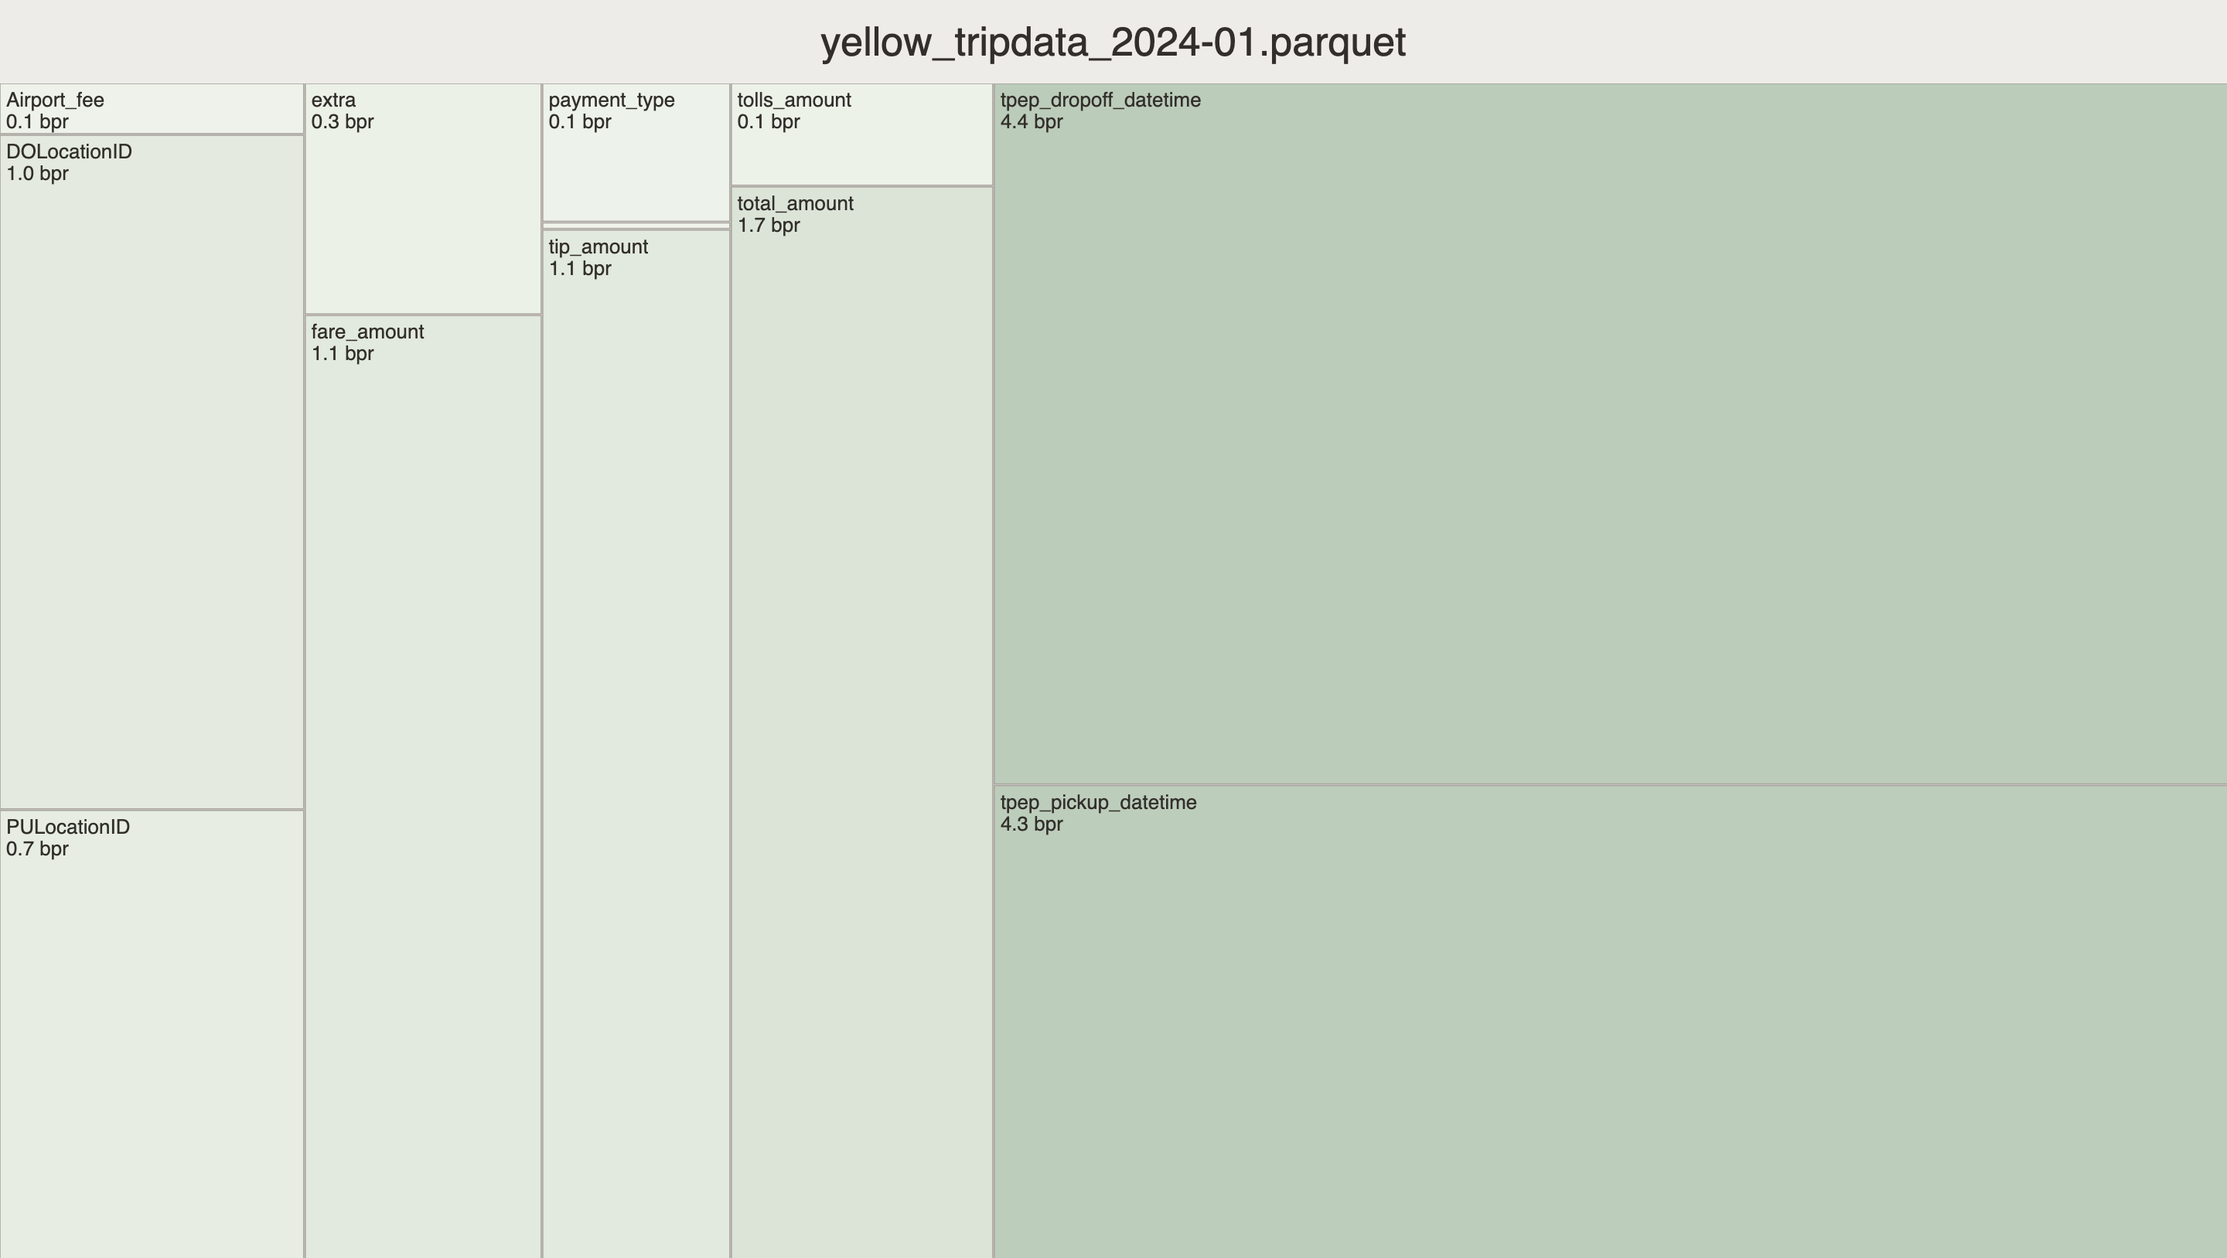
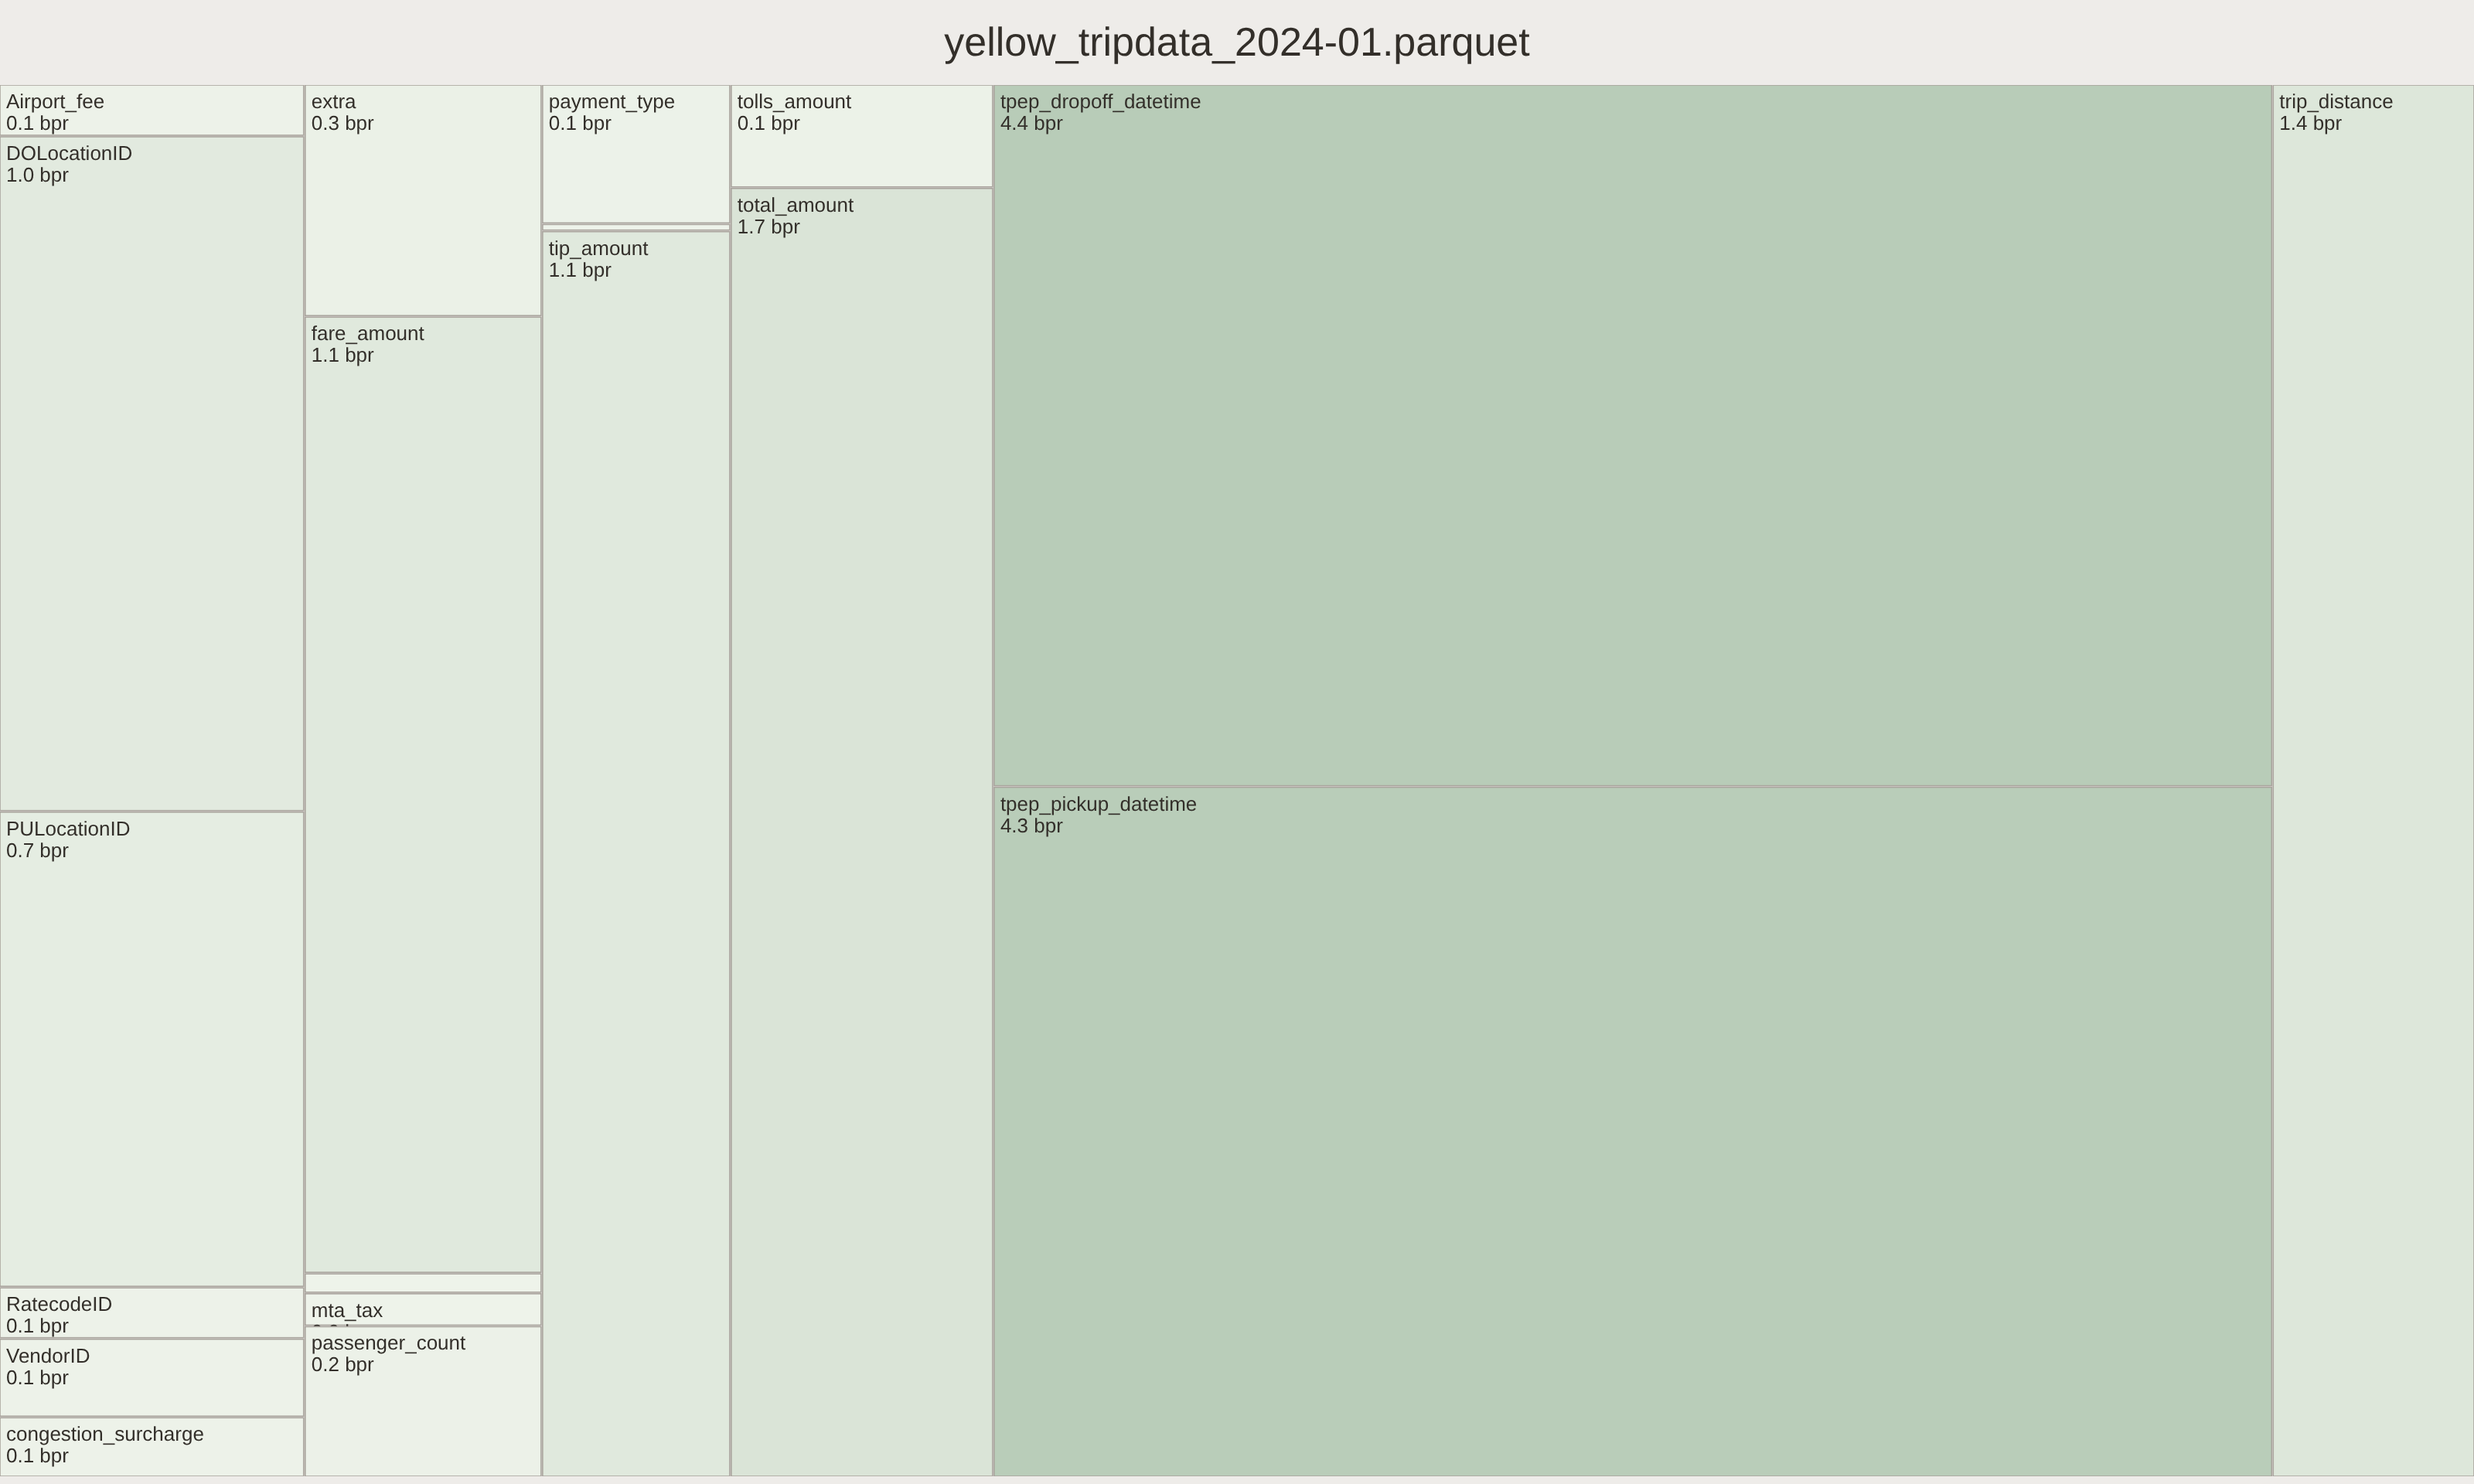
docs: retarget visual demos at the pqbench delta command
The standalone deltabench CLI is now pqbench's feature-gated delta
subcommand (#6, #17, #19, #21), so move the demo gallery, session scripts,
and recording pipeline over to it. Re-record the GIFs and re-capture both
treemap screenshots with the current binaries, and fold the verified public
samples into the repository AGENTS.md.

diff --git a/AGENTS.md b/AGENTS.md
@@ -136,6 +136,53 @@ analogy, convention, or precedent:
   codec objects are valid on any runner. Do not remove it: native-tuned objects
   restored from another runner's cache caused SIGILL.
 
+## Visual demos and public samples
+
+- Regenerate the terminal recordings with `docs/demos/record.sh`. It needs
+  Docker, `asciinema`, and `agg`; it builds `pqbench-cli` with the `delta`
+  feature in persistent, architecture-specific Cargo volumes, then records the
+  sessions in `docs/demos/` and renders `docs/images/*.gif`.
+- The D3 treemap PNGs in `docs/images/` are browser screenshots of `--d3`
+  output, not script-generated; recapture them by hand when the pages change.
+- Stage external inputs once under the ignored `.docker-data/` directory. The
+  source mount is read-only, so redirect generated output to `.docker-data/`
+  (or elsewhere on the host) rather than into the checkout, and reuse the
+  dataset paths documented in [docs/demo.md](docs/demo.md).
+- `make samples` fetches the small Apache/Hugging Face fixtures used by tests;
+  the demo datasets below are larger and live only under `.docker-data/`.
+
+The following anonymous endpoints were verified on 2026-09-19. Prefer these
+reusable inputs for demos instead of generating large fixtures from scratch.
+
+- Tiny Parquet smoke test (public GCS, 1,849 bytes):
+  `https://storage.googleapis.com/cloud-samples-data/bigquery/us-states/us-states.parquet`
+- Official Apache Parquet compatibility fixture (HTTPS, 1,698 bytes):
+  `https://raw.githubusercontent.com/apache/parquet-testing/master/data/alltypes_dictionary.parquet`
+  Other format and edge-case fixtures live in
+  `https://github.com/apache/parquet-testing/tree/master/data`.
+- Medium Parquet demo (public Azure Blob, 7,218,937 bytes):
+  `https://azureopendatastorage.blob.core.windows.net/censusdatacontainer/release/us_population_county/year=2000/part-00177-tid-926394737839939592-51ecde30-440a-40fd-9b41-831814678ab5-1919150.c000.snappy.parquet`
+- Realistic Parquet visualization demo (NYC yellow taxi, HTTPS, 49,961,641
+  bytes):
+  `https://d37ci6vzurychx.cloudfront.net/trip-data/yellow_tripdata_2024-01.parquet`
+- Small anonymous Delta table with three language partitions (public S3,
+  roughly 50 KB):
+  `s3://daft-public-datasets/red-pajamas/stackexchange-sample-north-germanic-deltalake`
+  HTTPS root:
+  `https://daft-public-datasets.s3.us-west-2.amazonaws.com/red-pajamas/stackexchange-sample-north-germanic-deltalake/`
+  First log:
+  `https://daft-public-datasets.s3.us-west-2.amazonaws.com/red-pajamas/stackexchange-sample-north-germanic-deltalake/_delta_log/00000000000000000000.json`
+
+Use the GCS file for a fast happy-path check, Apache fixtures for compatibility
+and regression coverage, Azure Census for a medium cloud example, NYC Taxi for
+a meaningful treemap demo, and the Daft S3 table for `pqbench delta`.
+
+Unity Catalog sample tables such as `samples.nyctaxi`, `samples.tpcds_sf1`, and
+`samples.tpch` require a Databricks workspace and are not anonymous object URLs.
+Do not use the formerly public `pandemicdatalake` Bing COVID Parquet URL or
+`ursa-labs-taxi-data` S3 bucket in unattended tests; live checks returned
+access errors on 2026-09-19.
+
 ## Repo layout
 
 - `crates/pqbench/` — the library (bench, bytemass, codecs, compression, lz,

diff --git a/docs/demo.md b/docs/demo.md
@@ -24,20 +24,23 @@ The treemap area represents each column's compressed bytes per physical row:
 
 ![NYC Taxi Parquet byte-mass treemap](images/pqbench-bytemass.png)
 
-## deltabench: one Delta snapshot
+## pqbench delta: one Delta snapshot
+
+The `delta` command is feature-gated; build with `--features delta` (the
+published Docker image ships without it):
 
 ```sh
-deltabench ./stackexchange-delta
-deltabench ./stackexchange-delta --version 0 --json
-deltabench ./stackexchange-delta --d3 > treemap.html
+pqbench delta ./stackexchange-delta
+pqbench delta ./stackexchange-delta --version 0 --json
+pqbench delta ./stackexchange-delta --d3 > treemap.html
 ```
 
-![deltabench CLI walkthrough](images/deltabench-bytemass.gif)
+![pqbench delta CLI walkthrough](images/pqbench-delta-bytemass.gif)
 
 The table-level treemap aggregates the active Parquet files selected by the
 Delta transaction log:
 
-![Stack Exchange Delta byte-mass treemap](images/deltabench-bytemass.png)
+![Stack Exchange Delta byte-mass treemap](images/pqbench-delta-bytemass.png)
 
 ## Regenerate the terminal recordings
 
@@ -48,5 +51,6 @@ Stage the datasets under `.docker-data/` as documented in
 docs/demos/record.sh
 ```
 
-The script detects the Docker daemon's native ARM64 or AMD64 architecture and
-uses persistent, architecture-specific Cargo volumes.
+The script detects the Docker daemon's native ARM64 or AMD64 architecture,
+builds `pqbench` with the `delta` feature using persistent,
+architecture-specific Cargo volumes, and renders both GIFs.

diff --git a/README.md b/README.md
@@ -82,6 +82,7 @@ the active files are measured from their footers only.
 ## Documentation
 
 - [Delta tables](docs/delta.md) — snapshot resolution, report shape, limitations
+- [Visual demos](docs/demo.md) — screenshots and terminal recordings
 - [Docker](docs/docker.md) — build, run, and publish a container image
 
 ## Contributing
